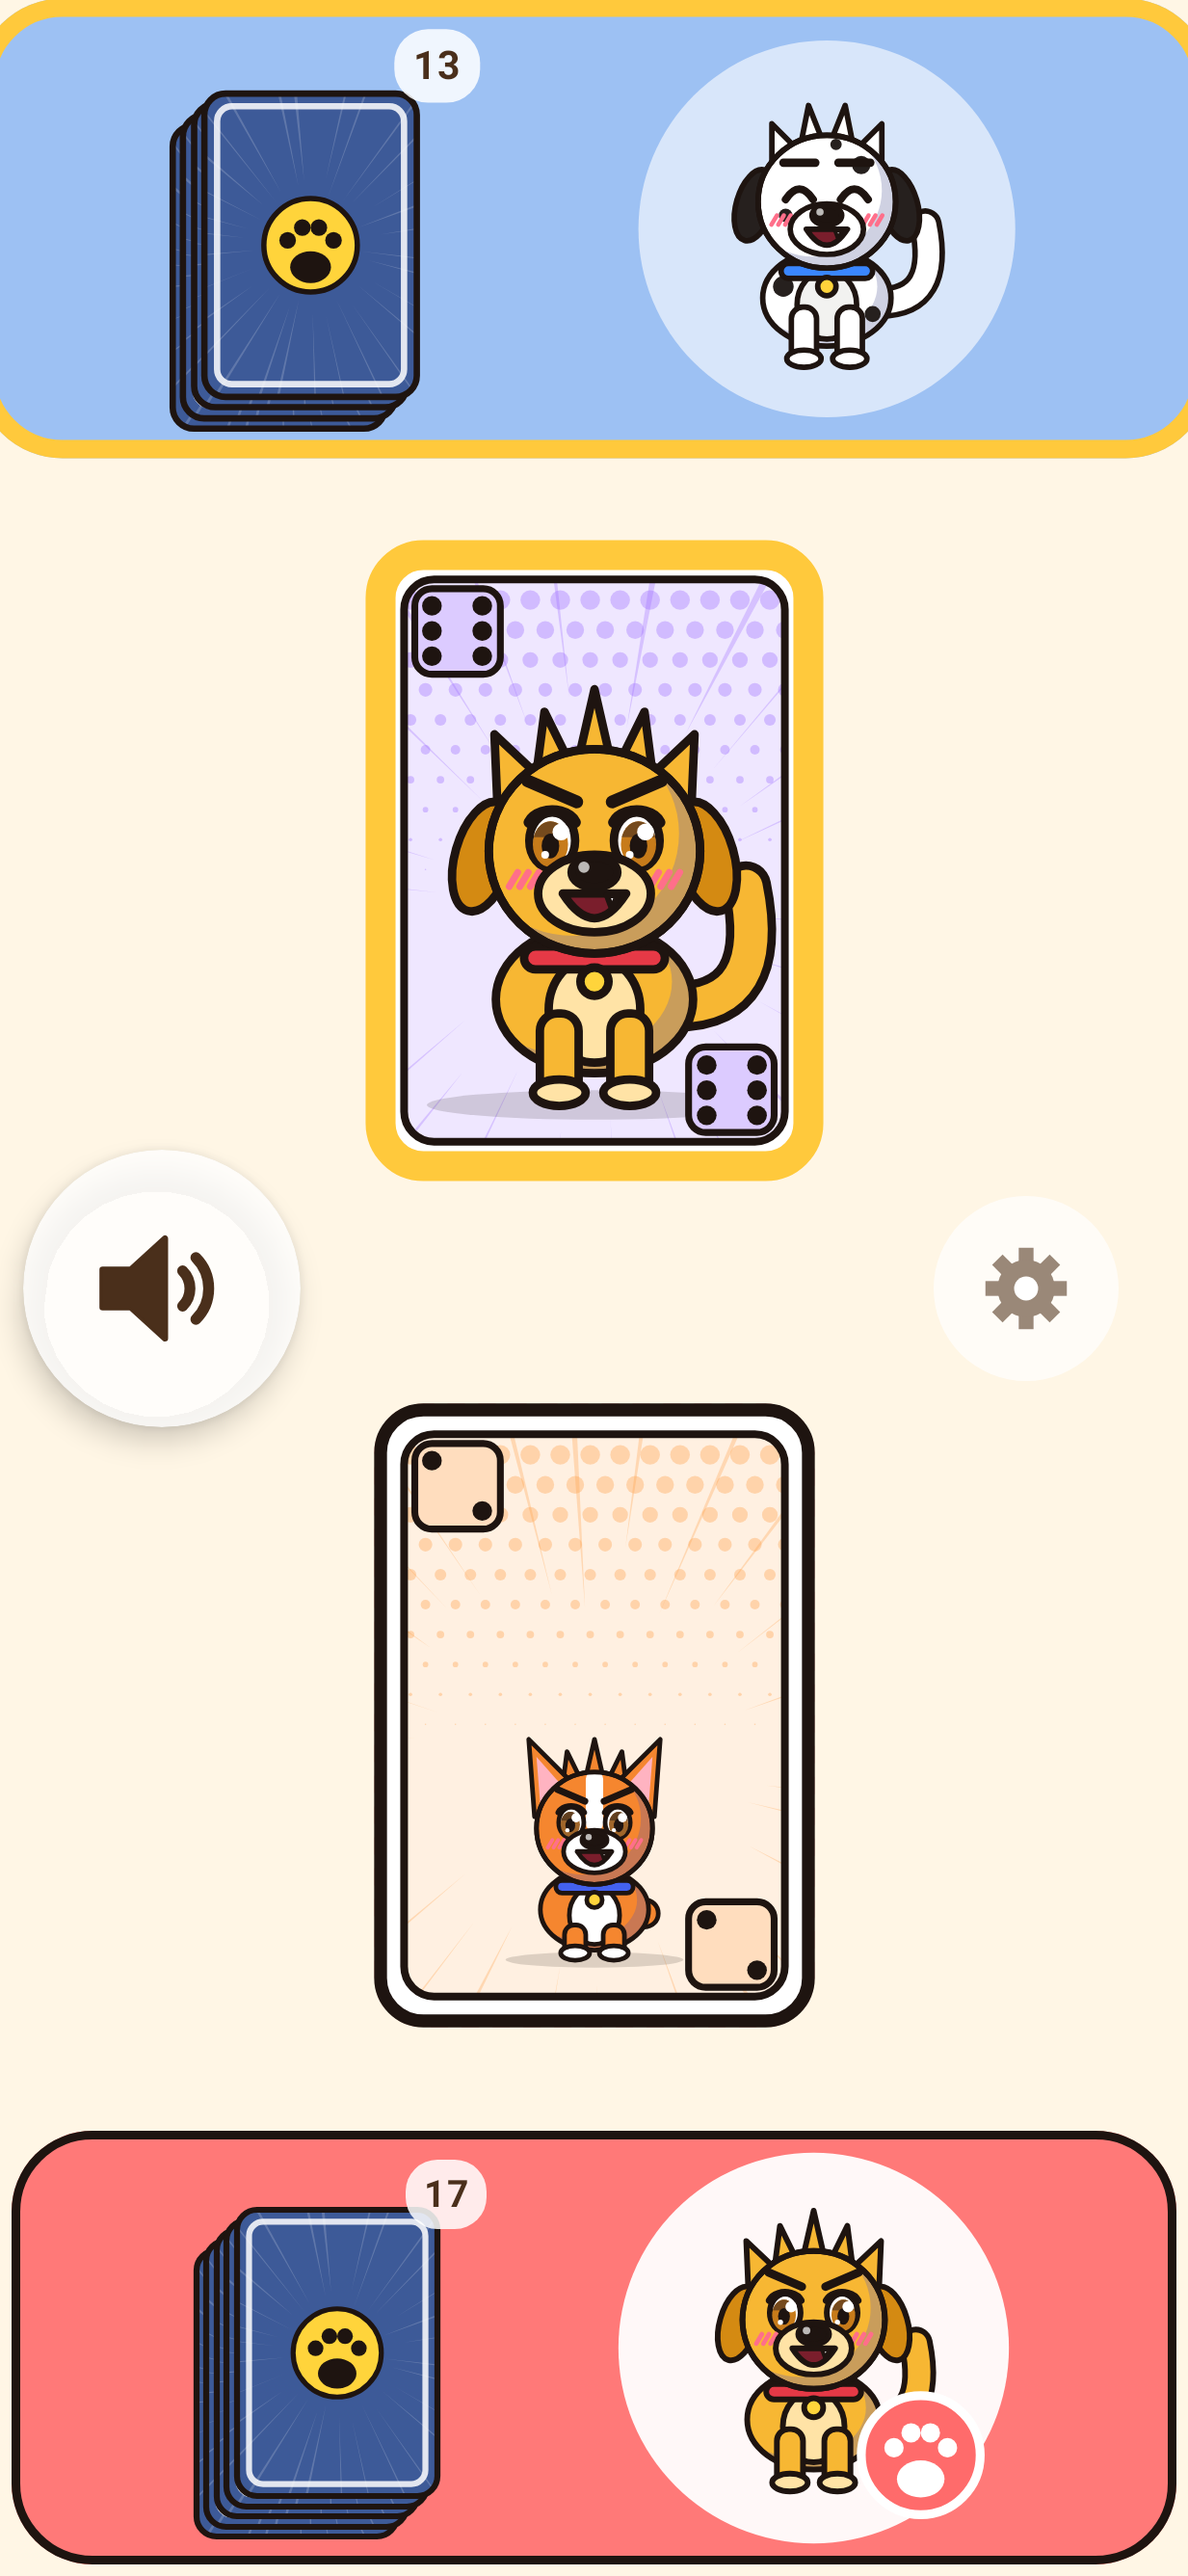
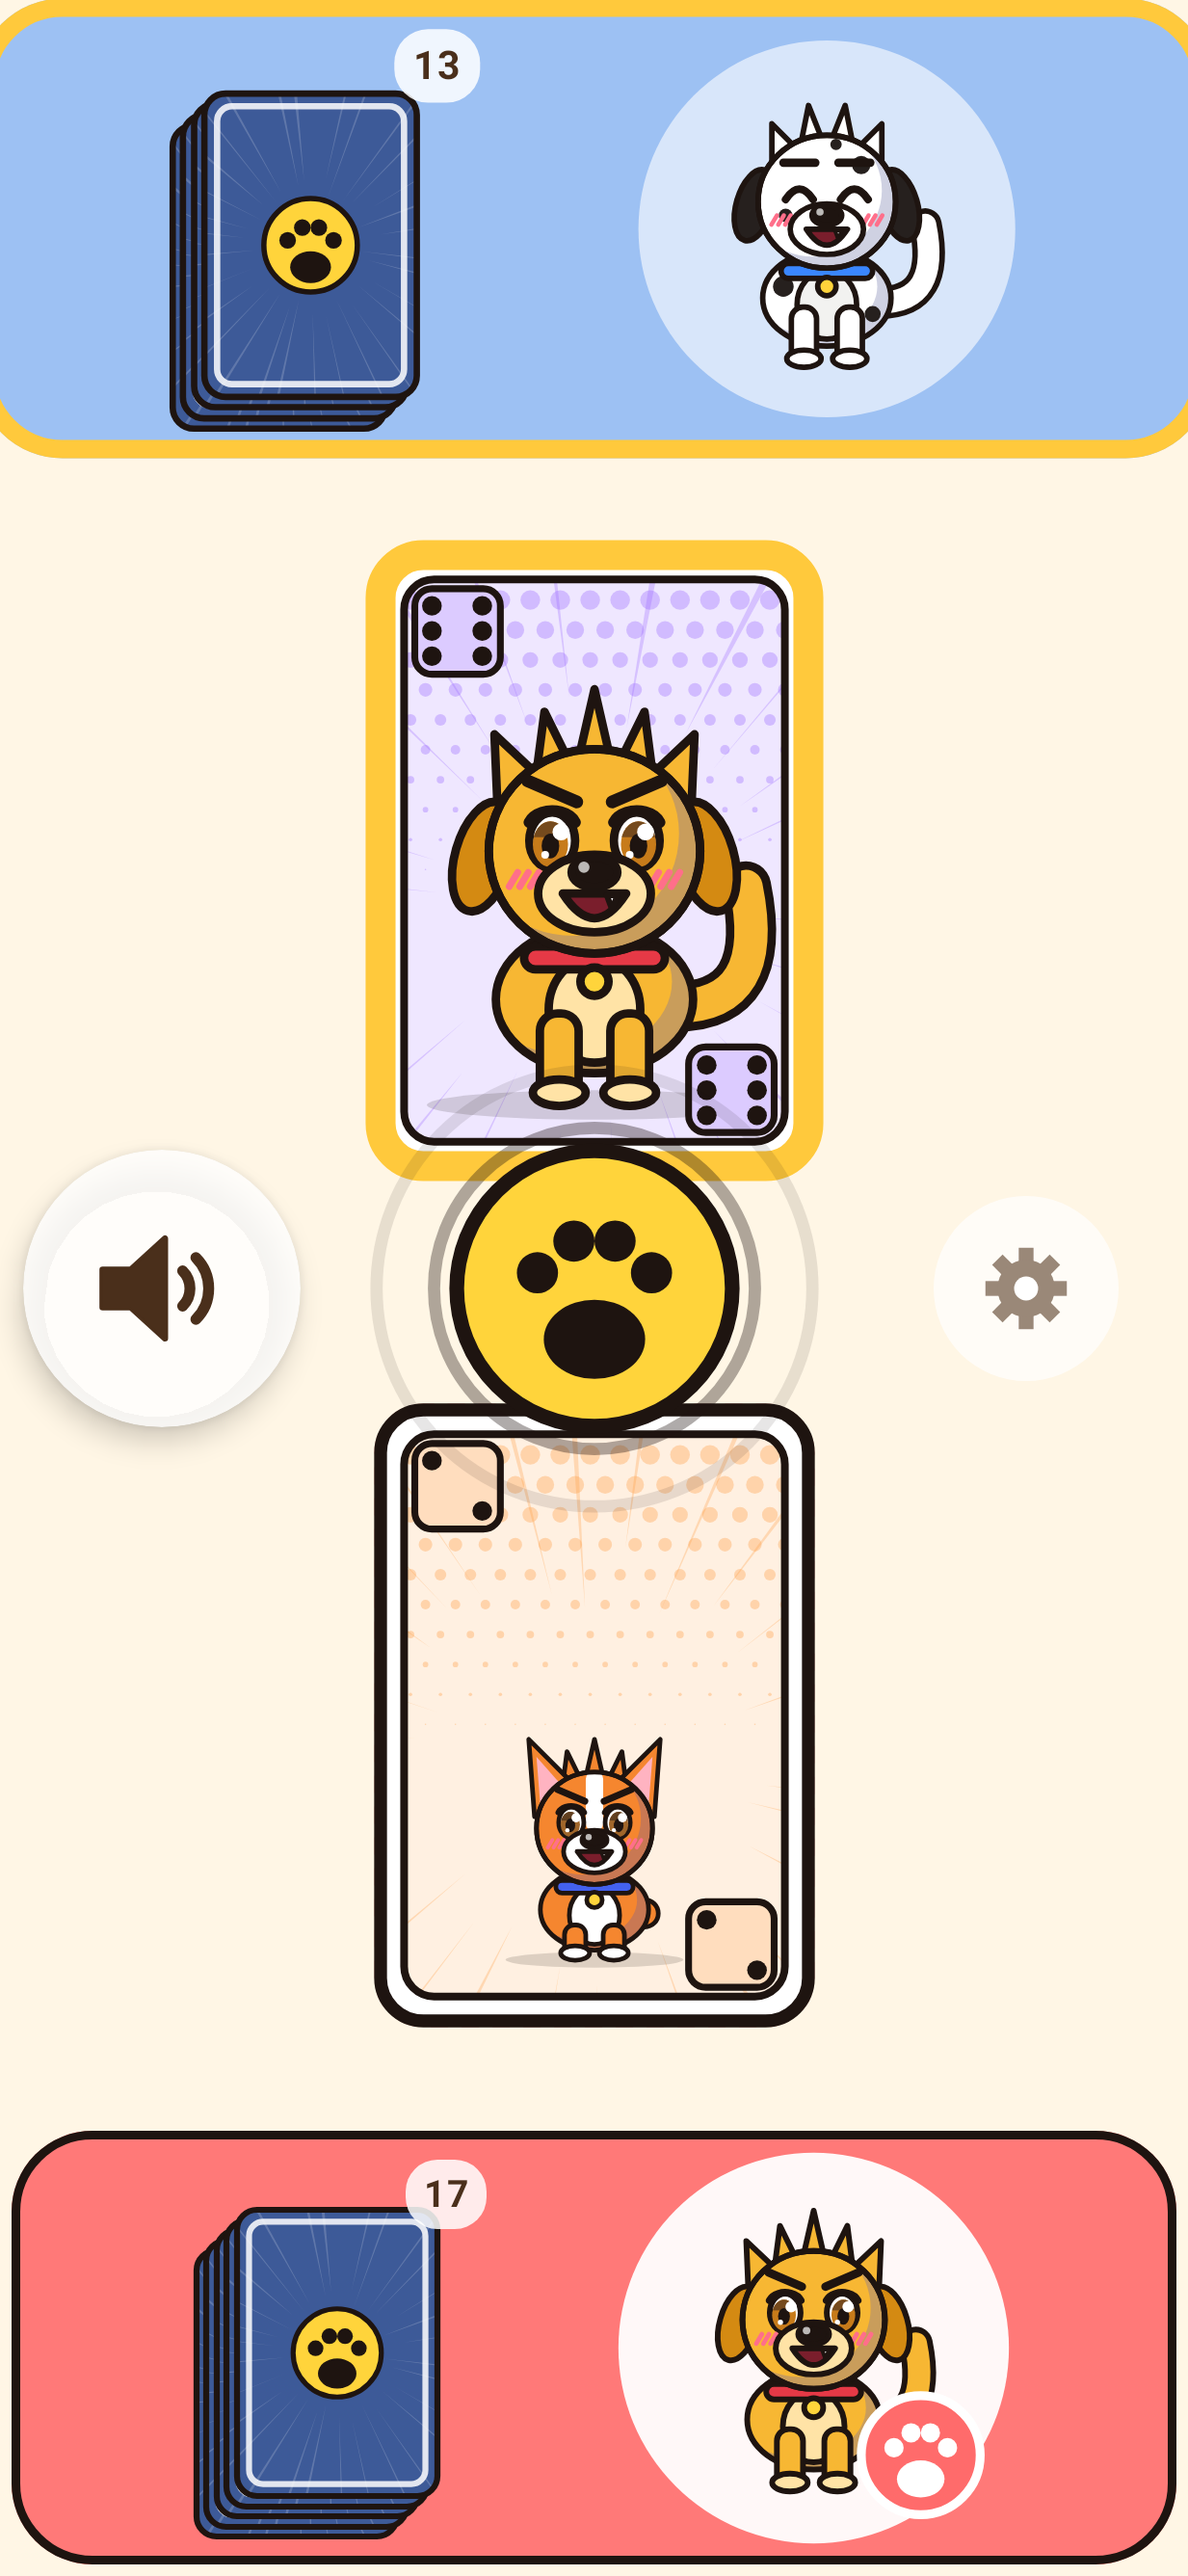
Wait for a tap on the screen after every round
- When a round is decided the cards stay on the table (winner highlighted)
  until someone taps anywhere; then they slide to the winner and the next
  round can start. A pulsing paw with ripples shows the game is waiting.
- Demo, auto-play and CPU-only games skip the wait after a short pause;
  switching auto-play on also releases a waiting round
- New end-to-end test checks a round waits 10 s untouched, then goes on
  after one tap; existing flows now finish each round with that tap

Changed region(s): [[0.339, 0.4037, 0.6472, 0.59]]

diff --git a/app/src/main/java/com/woofbattle/app/GameViewModel.kt b/app/src/main/java/com/woofbattle/app/GameViewModel.kt
@@ -9,6 +9,7 @@ import com.woofbattle.engine.Card
 import com.woofbattle.engine.GameEngine
 import com.woofbattle.engine.GameState
 import com.woofbattle.engine.RoundEvent
+import kotlinx.coroutines.CompletableDeferred
 import kotlinx.coroutines.Dispatchers
 import kotlinx.coroutines.Job
 import kotlinx.coroutines.delay
@@ -57,6 +58,8 @@ data class GameUi(
     val returning: Boolean = false,
     /** Start-of-game shuffle and deal animation; taps are ignored meanwhile. */
     val dealing: Boolean = false,
+    /** Round decided: cards stay on the table until someone taps the screen to go on. */
+    val awaitingContinue: Boolean = false,
 ) {
     val game: GameState get() = session.game
     val showVictory: Boolean get() = game.isFinished && !animating
@@ -76,6 +79,8 @@ class GameViewModel(app: Application, private val handle: SavedStateHandle) : An
     @Volatile private var sounds: SoundPlayer? = null
     private var roundJob: Job? = null
     private var autoJob: Job? = null
+    /** Completed by [onContinueTap] while a finished round waits on the table. */
+    private var continueSignal: CompletableDeferred<Unit>? = null
 
     private val _ui = MutableStateFlow(restore())
     val ui: StateFlow<AppUi> = _ui.asStateFlow()
@@ -161,6 +166,7 @@ class GameViewModel(app: Application, private val handle: SavedStateHandle) : An
         settingsRepo.save(next)
         sounds?.enabled = next.soundOn
         sounds?.theme = next.soundTheme
+        if (next.autoPlay) continueSignal?.complete(Unit) // auto-play also skips the wait
         _ui.update { it.copy(settings = next) }
         scheduleAutoFlip()
     }
@@ -182,6 +188,14 @@ class GameViewModel(app: Application, private val handle: SavedStateHandle) : An
         val ready = g.ready + seat
         _ui.update { it.copy(game = g.copy(ready = ready)) }
         if (activeHumans(g).all { it in ready }) startRound()
+    }
+
+    /** Tap anywhere after a round: collect the cards and get ready for the next round. */
+    fun onContinueTap() {
+        val signal = continueSignal ?: return
+        if (_ui.value.game?.awaitingContinue != true) return
+        play(Sfx.TAP)
+        signal.complete(Unit)
     }
 
     private fun activeHumans(g: GameUi) = g.session.humans.filter { !g.game.players[it].isEliminated }
@@ -211,6 +225,21 @@ class GameViewModel(app: Application, private val handle: SavedStateHandle) : An
         roundJob = viewModelScope.launch {
             val counts = g.pileCounts.toMutableList()
             fun set(transform: GameUi.() -> GameUi) = _ui.update { app -> app.copy(game = app.game?.transform()) }
+
+            // Children keep the result on screen until they tap; demos and CPU-only games go on alone.
+            val waitForTap = !_ui.value.settings.autoPlay && activeHumans(g).isNotEmpty()
+            suspend fun holdTable() {
+                if (waitForTap) {
+                    val signal = CompletableDeferred<Unit>()
+                    continueSignal = signal
+                    set { copy(awaitingContinue = true) }
+                    signal.await()
+                    continueSignal = null
+                    set { copy(awaitingContinue = false) }
+                } else {
+                    delay(AUTO_CONTINUE_MS)
+                }
+            }
 
             set { copy(animating = true, ready = emptySet()) }
             for (event in result.events) {
@@ -245,12 +274,15 @@ class GameViewModel(app: Application, private val handle: SavedStateHandle) : An
                         play(Sfx.WIN)
                         set { copy(trickWinner = event.winner, battlers = emptySet()) }
                         delay(600)
+                        holdTable()
                         set { copy(collectTo = event.winner) }
                         delay(750)
                         set { copy(table = emptyList(), collectTo = null, pileCounts = result.state.players.map { it.cardCount }) }
                     }
                     is RoundEvent.Returned -> {
-                        set { copy(returning = true, battlers = emptySet()) }
+                        set { copy(battlers = emptySet()) }
+                        holdTable()
+                        set { copy(returning = true) }
                         delay(750)
                         set { copy(table = emptyList(), returning = false, pileCounts = result.state.players.map { it.cardCount }) }
                     }
@@ -265,7 +297,7 @@ class GameViewModel(app: Application, private val handle: SavedStateHandle) : An
                 copy(
                     session = nextSession, pileCounts = result.state.players.map { it.cardCount },
                     table = emptyList(), animating = false, trickWinner = null, battlers = emptySet(),
-                    collectTo = null, returning = false,
+                    collectTo = null, returning = false, awaitingContinue = false,
                 )
             }
             scheduleAutoFlip()
@@ -300,6 +332,7 @@ class GameViewModel(app: Application, private val handle: SavedStateHandle) : An
     private fun play(sfx: Sfx) = sounds?.play(sfx)
 
     private fun cancelJobs() {
+        continueSignal = null
         roundJob?.cancel()
         autoJob?.cancel()
     }
@@ -312,6 +345,7 @@ class GameViewModel(app: Application, private val handle: SavedStateHandle) : An
         const val KEY_SESSION = "session"
         const val KEY_SCREEN = "screen"
         const val AUTO_DELAY_MS = 1100L
+        const val AUTO_CONTINUE_MS = 900L
         const val SHUFFLE_SOUNDS = 5
         const val SHUFFLE_STEP_MS = 360L
         val json = Json { ignoreUnknownKeys = true }

diff --git a/app/src/test/java/com/woofbattle/app/AppFlowTest.kt b/app/src/test/java/com/woofbattle/app/AppFlowTest.kt
@@ -55,6 +55,17 @@ class AppFlowTest {
 
     private fun exists(description: String) = rule.onAllNodesWithContentDescription(description).fetchSemanticsNodes().isNotEmpty()
 
+    /** Lets the round play out, checks it waits on the table, then taps the screen to go on. */
+    private fun finishRound() {
+        var waited = 0
+        while (ui.game?.awaitingContinue != true && waited < 30_000) {
+            advance(500); waited += 500
+        }
+        assertTrue(ui.game!!.awaitingContinue, "a finished round should wait for a tap")
+        tap("next round")
+        advance(3000)
+    }
+
     /** On launch the child picks their dog first, then reaches the main menu. */
     private fun passDogPicker(dog: String = "Golden") {
         rule.mainClock.autoAdvance = false // time only moves when advance() says so
@@ -117,7 +128,7 @@ class AppFlowTest {
         assertEquals(listOf(18, 18), ui.game!!.pileCounts)
 
         tap("seat 0")
-        advance(8000)
+        finishRound()
         assertTrue(ui.game!!.game.round >= 1, "tapping my flip zone should play a round")
         assertEquals(DECK_SIZE, ui.game!!.game.totalCards)
         tap("seat 1") // the computer's zone is not tappable for the child
@@ -145,8 +156,40 @@ class AppFlowTest {
         advance(3000)
         assertEquals(0, ui.game!!.game.round, "round must wait for the 4th player")
         tap("seat 3")
-        advance(8000)
+        finishRound()
         assertTrue(ui.game!!.game.round >= 1)
+    }
+
+    @Test
+    fun every_round_waits_for_a_tap_on_the_screen() {
+        passDogPicker()
+        tap("play against dogs")
+        tap("1 vs 1")
+        advance(2500)
+        tap("seat 0")
+        var waited = 0
+        while (ui.game?.awaitingContinue != true && waited < 30_000) {
+            advance(500); waited += 500
+        }
+        assertTrue(ui.game!!.awaitingContinue)
+        assertTrue(ui.game!!.table.isNotEmpty(), "the round's cards stay on the table")
+        assertTrue(ui.game!!.trickWinner != null || ui.game!!.table.isNotEmpty())
+
+        advance(10_000)
+        assertTrue(ui.game!!.awaitingContinue, "nothing moves on without a tap")
+        assertEquals(0, ui.game!!.game.round)
+
+        tap("next round")
+        advance(3000)
+        assertFalse(ui.game!!.awaitingContinue)
+        assertTrue(ui.game!!.table.isEmpty(), "after the tap the cards go to the winner")
+        assertEquals(1, ui.game!!.game.round)
+        assertFalse(exists("next round"))
+
+        // and the next round plays again from my flip zone
+        tap("seat 0")
+        finishRound()
+        assertEquals(2, ui.game!!.game.round)
     }
 
     @Test
@@ -214,7 +257,7 @@ class AppFlowTest {
         tap("1 vs 2")
         advance(2500)
         tap("seat 0")
-        advance(8000)
+        finishRound()
         val before = ui.game!!.game
 
         rule.activity.onBackPressedDispatcher.onBackPressed()

diff --git a/app/src/main/java/com/woofbattle/app/ui/GameScreen.kt b/app/src/main/java/com/woofbattle/app/ui/GameScreen.kt
@@ -97,6 +97,7 @@ fun GameScreen(
     onOpenParent: () -> Unit,
     onReplay: () -> Unit,
     onHome: () -> Unit,
+    onContinue: () -> Unit = {},
 ) {
     BackHandler { /* swallow: little hands hit Back a lot; parents leave via the parent area */ }
 
@@ -191,6 +192,9 @@ fun GameScreen(
             }
         }
 
+        // Round decided: one tap anywhere collects the cards and readies the next round.
+        if (ui.awaitingContinue) TapToContinue(onContinue)
+
         // Corner controls (sound + parent gate) at the edges where they disturb play least.
         val controlsAlignTop = rows.size == 1
         BigIconButton(
@@ -211,6 +215,33 @@ fun GameScreen(
 
         if (ui.showVictory) {
             VictoryOverlay(ui = ui, onReplay = onReplay, onHome = onHome)
+        }
+    }
+}
+
+/** Full-screen tap target with a pulsing paw and ripples in the middle: "tap to go on". */
+@Composable
+private fun TapToContinue(onContinue: () -> Unit) {
+    val pulse = rememberInfiniteTransition(label = "tap")
+    val t by pulse.animateFloat(0f, 1f, infiniteRepeatable(tween(1100)), label = "t")
+    Box(
+        Modifier
+            .fillMaxSize()
+            .clickable(interactionSource = remember { MutableInteractionSource() }, indication = null, onClick = onContinue)
+            .semantics { contentDescription = "next round" },
+        contentAlignment = Alignment.Center,
+    ) {
+        Canvas(Modifier.size(170.dp)) {
+            val c = Offset(size.width / 2, size.height / 2)
+            val r = size.minDimension * 0.26f
+            // two ripples expanding outward
+            listOf(t, (t + 0.5f) % 1f).forEach { k ->
+                drawCircle(Ink.copy(alpha = 0.5f * (1f - k)), r * (1f + 0.9f * k), c, style = Stroke(size.minDimension * 0.025f))
+            }
+            val bob = 1f + 0.08f * sin(t * 2 * Math.PI.toFloat())
+            drawCircle(Color(0xFFFFD43B), r * bob, c)
+            drawCircle(Ink, r * bob, c, style = Stroke(size.minDimension * 0.03f))
+            drawPaw(Offset(c.x, c.y + r * 0.15f), r * 1.15f * bob, Ink)
         }
     }
 }

diff --git a/app/src/main/java/com/woofbattle/app/MainActivity.kt b/app/src/main/java/com/woofbattle/app/MainActivity.kt
@@ -59,6 +59,7 @@ class MainActivity : ComponentActivity() {
                             onOpenParent = { parentOpen = true },
                             onReplay = viewModel::replay,
                             onHome = viewModel::goHome,
+                            onContinue = viewModel::onContinueTap,
                         )
                     } else {
                         HomeScreen(

diff --git a/app/src/test/java/com/woofbattle/app/ScreenshotTest.kt b/app/src/test/java/com/woofbattle/app/ScreenshotTest.kt
@@ -120,7 +120,7 @@ class ScreenshotTest {
         val ui = game(
             Mode.VS_CPU, listOf(List(17) { 3 }, List(13) { 2 }),
             listOf(TableCard(Card(100, 2), 0, true), TableCard(Card(101, 6), 1, true)),
-        ) { it.copy(trickWinner = 1) }
+        ) { it.copy(trickWinner = 1, awaitingContinue = true) }
         GameScreen(ui, settings, strings, ::noop, {}, {}, {}, {})
     }
 

diff --git a/README.md b/README.md
@@ -148,6 +148,10 @@ label is there for parents). The arrow button or Back returns to the menu.
   180° so players across the table see their cards upright. The round starts when everyone has tapped.
 - **Demo** (green tile): all seats play automatically. The parent area also has an
   **auto-play** toggle that works in any mode.
+- **Tap to continue:** after every round the cards stay on the table, with the winning card
+  highlighted and a pulsing paw in the middle, until someone taps anywhere on the screen. Then
+  the cards slide to the winner and the next round can start. Demo, auto-play and games with only
+  computer dogs left continue on their own after a short pause.
 - The pile is drawn as a stack whose height grows with card count, plus a small number for parents.
 - Tie: bark sound, screen shake and an animated manga **bark-off**: the tied dogs lunge at each
   other and take turns shouting "WOOF!" (OUAF ! / ¡GUAU! / WOEF!) in jagged speech balloons, with
